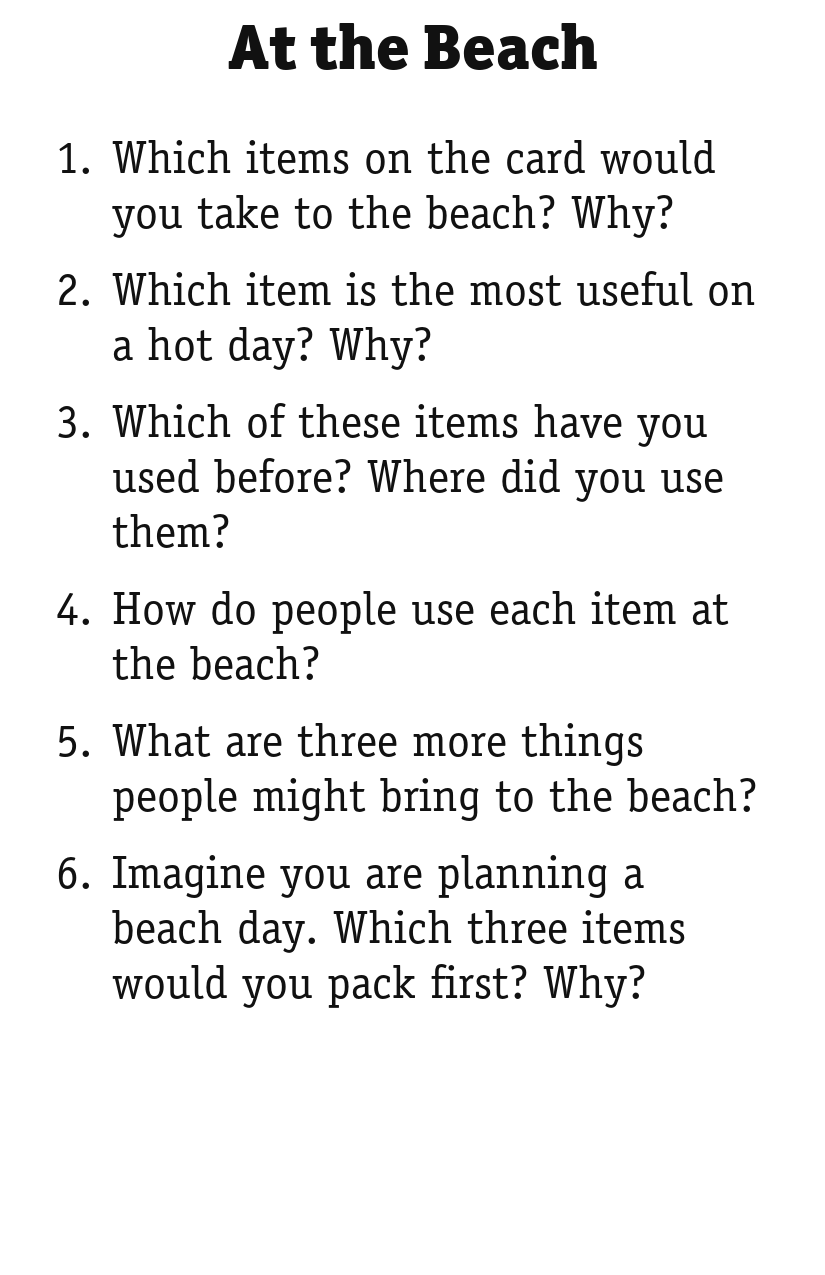
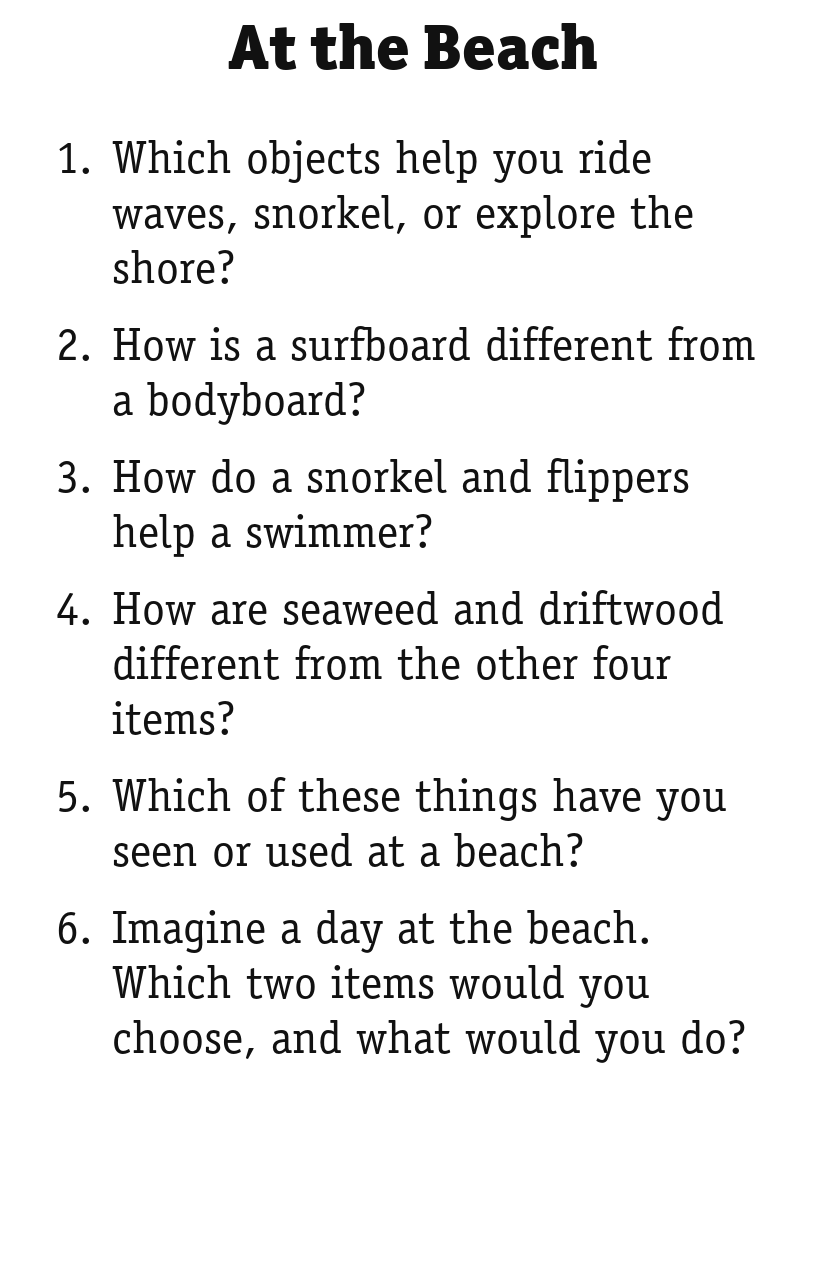
Rebuild At the Beach around clear exclusive pairs

diff --git a/picture-this/game-data.js b/picture-this/game-data.js
@@ -193,12 +193,12 @@ window.PICTURE_THIS_GAME_DATA = {
     "Rabbit"
   ],
   "at-the-beach": [
-    "Beach Ball",
-    "Sun Hat",
-    "Beach Towel",
-    "Sunscreen",
-    "Sandcastle",
-    "Flip-Flops"
+    "Surfboard",
+    "Bodyboard",
+    "Snorkel",
+    "Flippers",
+    "Seaweed",
+    "Driftwood"
   ],
   "in-the-kitchen": [
     "Frying Pan",
@@ -1406,6 +1406,42 @@ window.PICTURE_THIS_GAME_DATA = {
 window.PICTURE_THIS_GAME_META = {
   "schema_version": 1,
   "cards": {
+    "at-the-beach": {
+      "title": "At the Beach",
+      "category_answers": ["At the Beach", "Beach Items", "Things at the Beach", "Beach Gear and Finds"],
+      "tags": ["beach", "ocean", "water", "outdoors", "nature"],
+      "items": [
+        {"id": "surfboard", "label": "Surfboard", "answers": ["Surfboard", "Surf Board", "Surfing Board"]},
+        {"id": "bodyboard", "label": "Bodyboard", "answers": ["Bodyboard", "Body Board", "Boogie Board"]},
+        {"id": "snorkel", "label": "Snorkel", "answers": ["Snorkel", "Snorkeling Tube", "Breathing Tube"]},
+        {"id": "flippers", "label": "Flippers", "answers": ["Flippers", "Swim Fins", "Swimming Fins"]},
+        {"id": "seaweed", "label": "Seaweed", "answers": ["Seaweed", "Sea Weed", "Kelp"]},
+        {"id": "driftwood", "label": "Driftwood", "answers": ["Driftwood", "Drift Wood", "Beach Wood"]}
+      ],
+      "links": [
+        {
+          "word": "waves",
+          "answers": ["waves", "wave", "surfing"],
+          "items": ["surfboard", "bodyboard"],
+          "explanation": "The surfboard and bodyboard are the only two items shown specifically designed for riding waves.",
+          "audit": "exclusive-among-six-v1"
+        },
+        {
+          "word": "snorkeling",
+          "answers": ["snorkeling", "snorkel"],
+          "items": ["snorkel", "flippers"],
+          "explanation": "The snorkel and flippers are the only two pieces of gear shown specifically used together for snorkeling.",
+          "audit": "exclusive-among-six-v1"
+        },
+        {
+          "word": "natural",
+          "answers": ["natural", "nature"],
+          "items": ["seaweed", "driftwood"],
+          "explanation": "The seaweed and driftwood are the only two naturally occurring beach finds shown; the other four items are manufactured gear.",
+          "audit": "exclusive-among-six-v1"
+        }
+      ]
+    },
     "outdoor-gear": {
       "title": "Weather Accessories",
       "category_answers": ["Weather Accessories", "Weather Gear", "Outdoor Weather Gear", "Things for the Weather"],

diff --git a/picture-this/question-data.js b/picture-this/question-data.js
@@ -1059,45 +1059,45 @@ window.PICTURE_THIS_QUESTION_DATA = {
   },
   "at-the-beach": {
     "questions": [
-      "Which items on the card would you take to the beach? Why?",
-      "Which item is the most useful on a hot day? Why?",
-      "Which of these items have you used before? Where did you use them?",
-      "How do people use each item at the beach?",
-      "What are three more things people might bring to the beach?",
-      "Imagine you are planning a beach day. Which three items would you pack first? Why?"
+      "Which objects help you ride waves, snorkel, or explore the shore?",
+      "How is a surfboard different from a bodyboard?",
+      "How do a snorkel and flippers help a swimmer?",
+      "How are seaweed and driftwood different from the other four items?",
+      "Which of these things have you seen or used at a beach?",
+      "Imagine a day at the beach. Which two items would you choose, and what would you do?"
     ],
     "positions": [
       12.43,
-      22.75,
-      33.1,
+      27.06,
+      37.41,
       47.76,
-      58.16,
-      68.47
+      62.47,
+      72.78
     ],
     "endpoints": [
       {
-        "x": 82.3,
-        "y": 16.98
+        "x": 29.45,
+        "y": 20.94
       },
       {
-        "x": 52.97,
-        "y": 27.33
+        "x": 45.33,
+        "y": 31.65
       },
       {
-        "x": 28.48,
-        "y": 41.65
+        "x": 53.45,
+        "y": 42.0
       },
       {
-        "x": 39.39,
-        "y": 52.0
+        "x": 29.45,
+        "y": 56.31
       },
       {
-        "x": 92.36,
-        "y": 62.35
+        "x": 71.76,
+        "y": 66.67
       },
       {
-        "x": 78.91,
-        "y": 77.37
+        "x": 91.39,
+        "y": 81.69
       }
     ]
   },

diff --git a/picture-this/link-data.js b/picture-this/link-data.js
@@ -55,7 +55,7 @@ window.PICTURE_THIS_LINK_DATA = {
   "market": [pictureThisLink("produce", [0,3], "Fruit and vegetables are the only two fresh-produce groups shown.")],
   "outdoor-gear": [],
   "pets": [pictureThisLink("aquatic", [1,4], "The fish and turtle are the only two pets shown that characteristically live in water.", ["water"])],
-  "at-the-beach": [pictureThisLink("sunburn", [1,3], "The sun hat and sunscreen are the only two items shown specifically used to prevent sunburn.")],
+  "at-the-beach": [],
   "in-the-kitchen": [pictureThisLink("mixing", [1,2], "The wooden spoon and mixing bowl are the only two items shown specifically named or designed for mixing.", ["mix"])],
   "getting-dressed": [],
   "at-the-doctor": [
@@ -321,10 +321,7 @@ const auditedLinkAdditions = {
     pictureThisLink("companions", [0,2], "Cat and dog are the only two free-roaming household companion mammals shown."),
     pictureThisLink("caged", [3,5], "Parrot and rabbit are the only two pets shown commonly kept in cages or hutches.")
   ],
-  "at-the-beach": [
-    pictureThisLink("striped", [0,2], "Beach ball and beach towel are the only two items shown with broad multicolored stripes."),
-    pictureThisLink("sandy", [1,4], "Sun hat and sandcastle are the only two beach items shown predominantly sand-colored.")
-  ],
+  "at-the-beach": [],
   "in-the-kitchen": [
     pictureThisLink("heatproof", [0,5], "Frying pan and oven mitt are the only two items shown directly joined by safely handling hot cookware."),
     pictureThisLink("wooden", [1,4], "Wooden spoon and cutting board are the only two kitchen items shown characteristically made of wood.")
